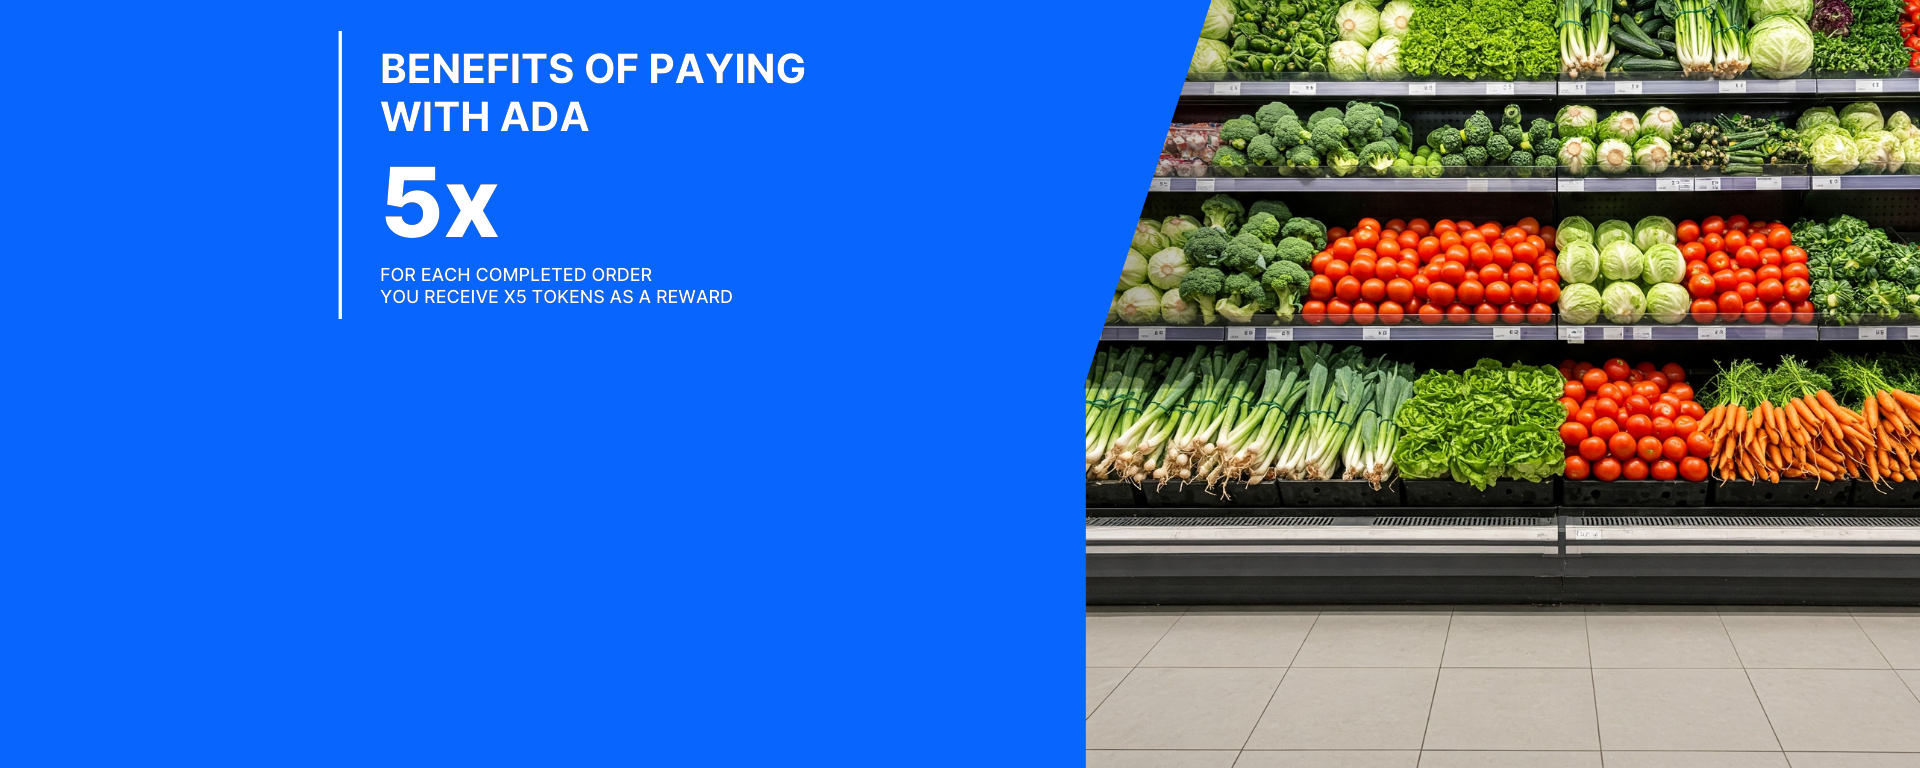
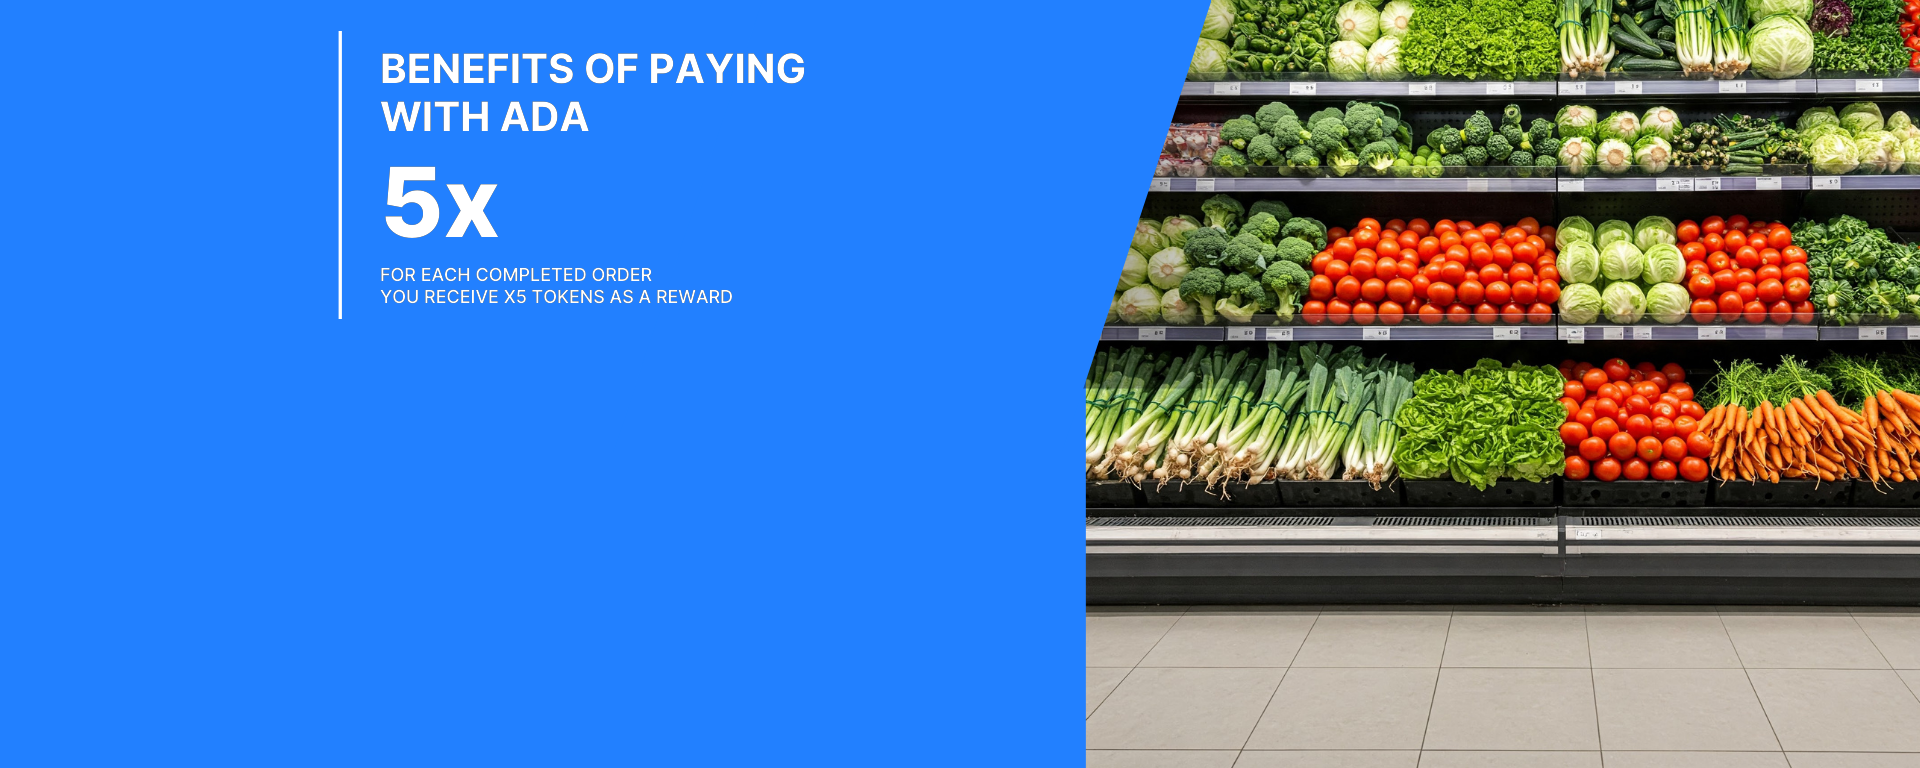
styles

diff --git a/frontend-main/src/assets/base.css b/frontend-main/src/assets/base.css
@@ -61,7 +61,7 @@
 
   --p-icon-size: var(--text-size-2) !important;
 
-  --p-rating-icon-active-color: var(--text-a) !important;
+  --p-rating-icon-active-color: var(--primary-a) !important;
 
   --p-rating-icon-color: rgba(100, 116, 139, 0.5) !important;
 
@@ -106,7 +106,6 @@
 
   --text-a: #222;
   --text-b: #565959;
-  --text-c: var(--logo-a);
   --text-w: #ffffff;
 
   --text-size-a: 0.833rem;
@@ -142,7 +141,7 @@
   --orange-b: #ff4500;
   --yellow-a: #fcbc05;
   --yellow-b: #FFEA00;
-  --blue-a: #0866ff;
+  --blue-a: #2280FF;
   --cyan-a: #60a3ff;
 
   --logo-a: #2648A4;

diff --git a/frontend-main/src/assets/mytheme.js b/frontend-main/src/assets/mytheme.js
@@ -316,7 +316,7 @@ export  const MyPreset = definePreset(Lara, {
             200: "#95bdff",
             300: "#66a0ff",
             400: "#3783ff",
-            500: "#0866ff",
+            500: "#2280FF",
             600: "#0757d9",
             700: "#0647b3",
             800: "#04388c",

diff --git a/frontend-main/src/views/product/BuyModule.vue b/frontend-main/src/views/product/BuyModule.vue
@@ -322,7 +322,7 @@ const computedTotalFiat = computed(() => {
     return 0;
 })
 
-const productRating = ref(getProductData.value?.rating);
+const productRating = ref(getProductData.value.rating);
 
 const getStockLabel = (readyStock) => {
     return readyStock > 0 ? "In Stock" : "Out Stock";

diff --git a/frontend-main/src/views/home/CategoryComp.vue b/frontend-main/src/views/home/CategoryComp.vue
@@ -152,7 +152,6 @@ const column4 = categoryArray.slice(9, 15);
 .legend {
     width: inherit;
     text-align: left;
-    color: var(--text-c);
 }
 
 .tag {
